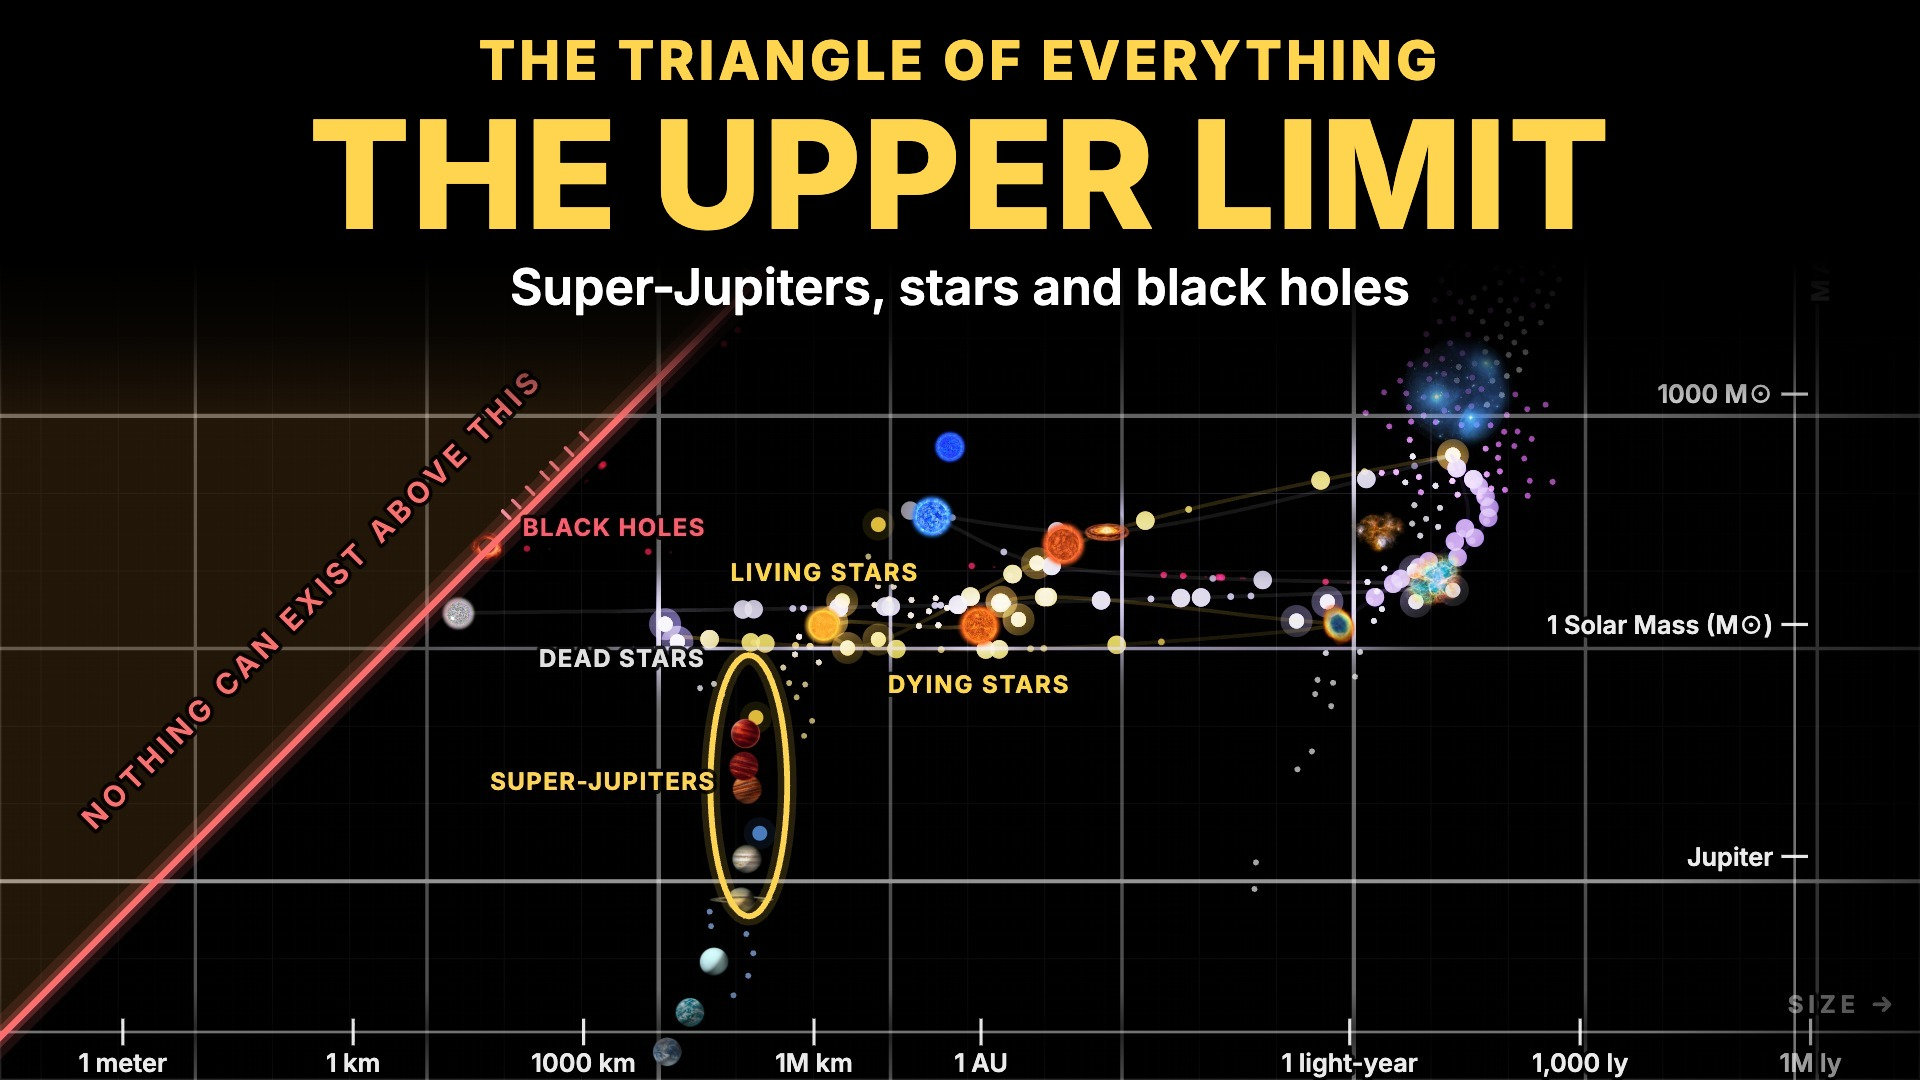
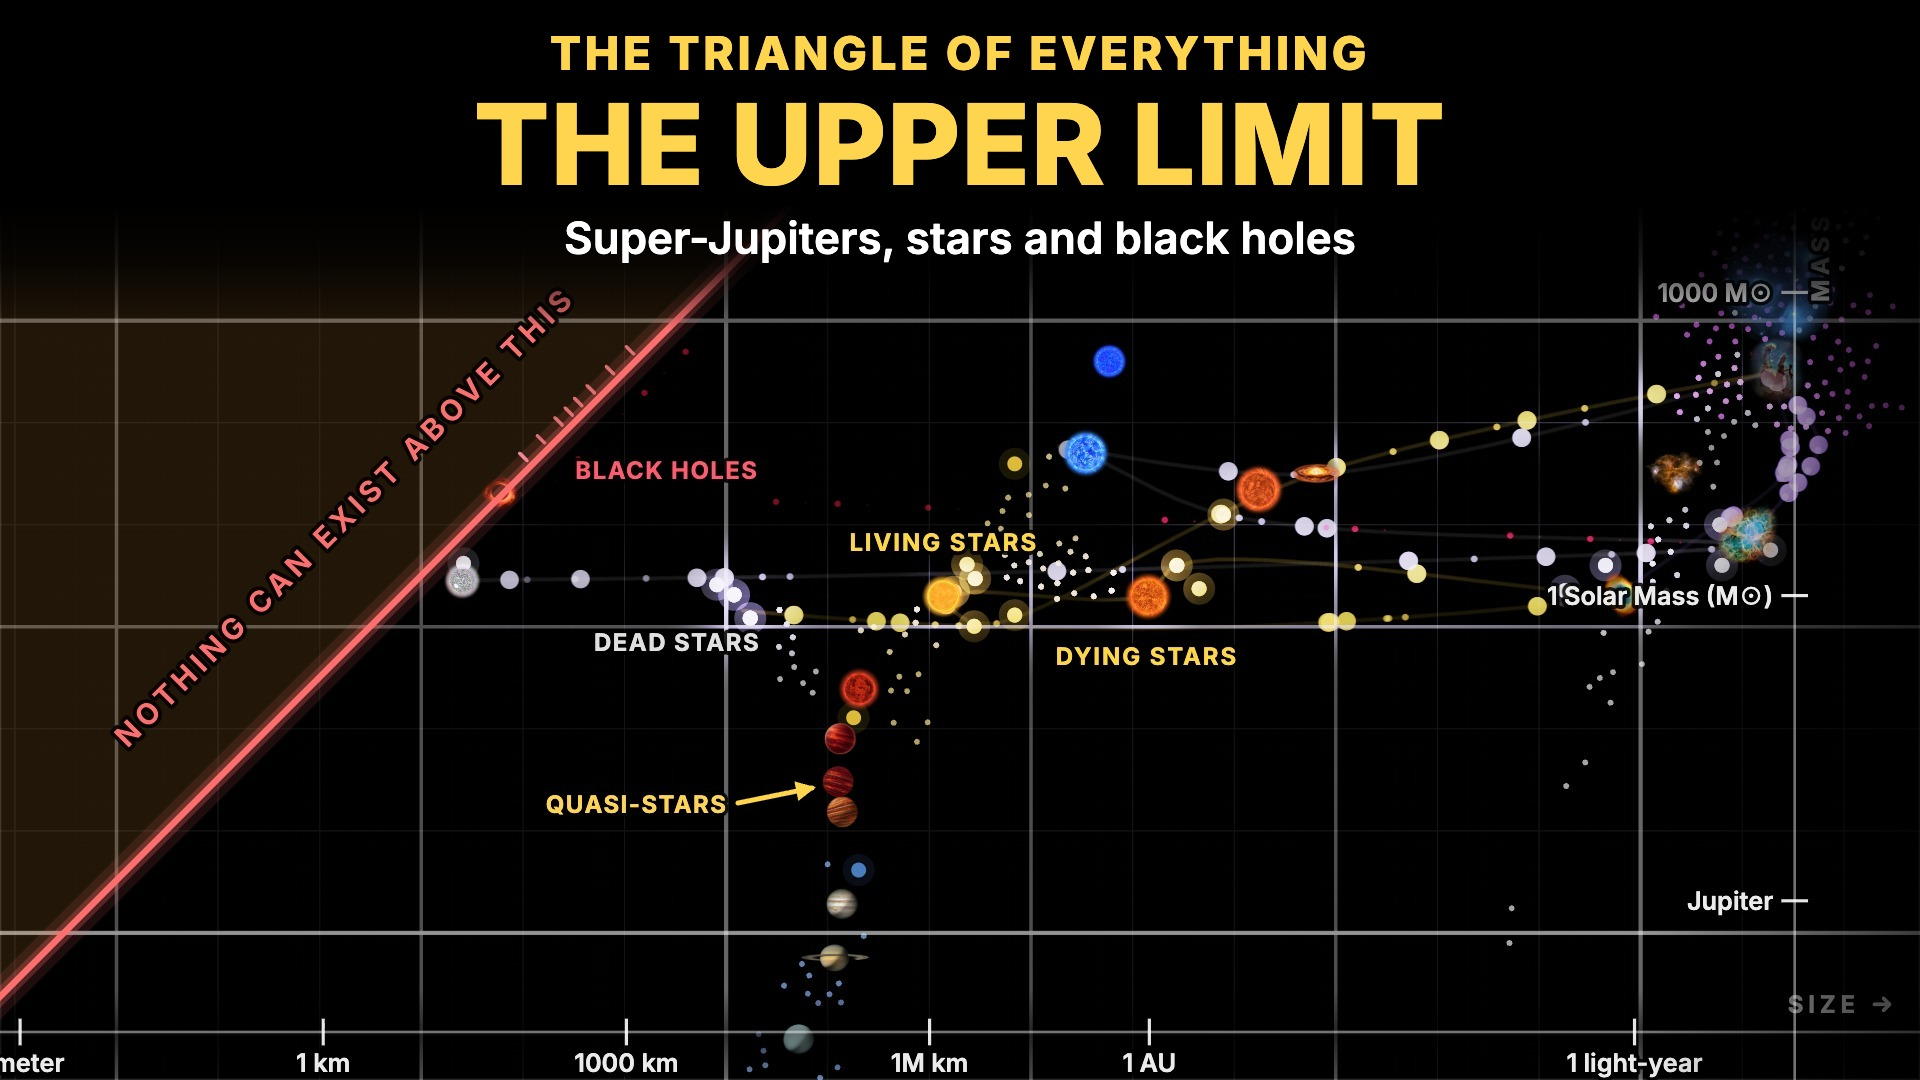
The Upper Limit thumbnail v3: smaller title, closer on the stars, an arrow to the brown dwarfs ("quasi-stars") in place of the super-Jupiter oval (the author, 2026-11-26)

Changed region(s): [[0.0, 0.0306, 1.0, 1.0], [0.7812, 0.9472, 0.9688, 1.0], [0.5625, 0.9778, 0.625, 1.0]]

diff --git a/src/narration-scenes/long-02b-space.js b/src/narration-scenes/long-02b-space.js
@@ -11,17 +11,16 @@ const CYCLE = [LOW, HIGH, { path: ["nebula-to-nursery", "remnant-to-nursery"] }]
 const T = (text, at, size, color) => ({ text, at, size, ...(color ? { color } : {}), instant: true });
 
 export default {
-  posterWide: { at: 3, set: { iconSize: 34 }, cues: [{ t: 0, cam: { r: 12.6, m: 34.4, span: 25 }, dur: 0.1, drift: 0, hl: [
+  posterWide: { at: 3, set: { iconSize: 34 }, cues: [{ t: 0, cam: { r: 11.0, m: 33.85, span: 19 }, dur: 0.1, drift: 0, hl: [
     ...CYCLE.map(h => ({ ...h, draw: 0.01 })),
     { side: "left", of: "schwarzschild" },
-    { ...SCHW, label: "nothing can exist above this", size: 11, labelAt: [4.8, 33.0], labelOffset: 12, instant: true },
+    { ...SCHW, label: "nothing can exist above this", size: 11, labelAt: [5.4, 33.6], labelOffset: 12, instant: true },
     { obj: "Sun", label: "living stars", place: "above", labelSize: 9, instant: true },
-    { obj: "Red Giant", label: "dying stars", place: "above", labelSize: 9, instant: true },
+    { obj: "Red Giant", label: "dying stars", place: "below", labelSize: 9, instant: true },
     { obj: "White Dwarf", label: false, instant: true },
     T("dead stars", [8.2, 32.75], 9, "#e0e0e0"),
     { obj: "Stellar BH", label: false, instant: true },
     T("black holes", [8.1, 34.45], 9, "#ff5a6e"),
-    { ellipse: [9.85, 31.2, 0.5, 1.7], rot: 0, label: false, color: "#ffd54f", draw: 0.01 },
-    T("super-Jupiters", [7.95, 31.15], 9, "#ffd54f"),
+    T("quasi-stars", [7.8, 31.15], 9, "#ffd54f"),
   ] }] },
 };
